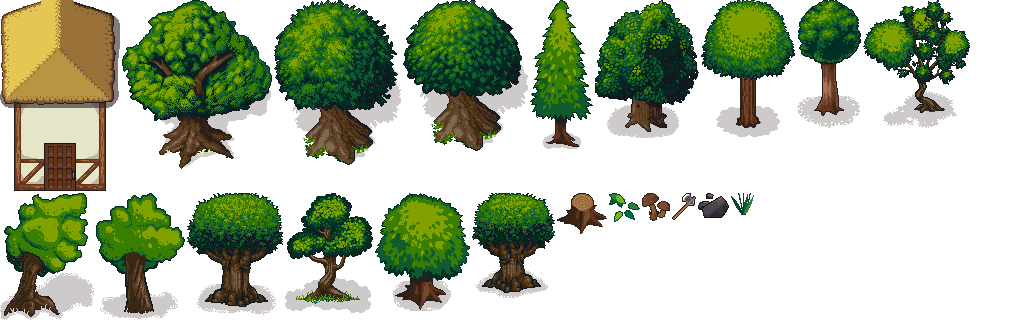
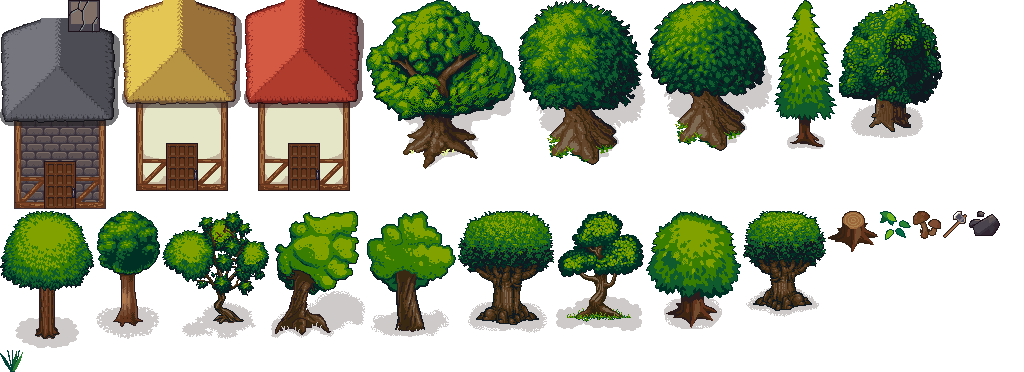
[PROJECT-X]: Build the forge and the armory in the village

diff --git a/test/layers/presentation/features/forest/game/forest_scene_component_test.dart b/test/layers/presentation/features/forest/game/forest_scene_component_test.dart
@@ -3,6 +3,8 @@ import 'dart:math' as math;
 import 'package:flame/game.dart';
 import 'package:flame_test/flame_test.dart';
 import 'package:flutter_test/flutter_test.dart';
+import 'package:rpg/core/config/constants/enum/blueprint_id.dart';
+import 'package:rpg/layers/presentation/features/forest/game/components/placement_ghost_component.dart';
 import 'package:rpg/layers/presentation/features/forest/game/components/ground_component.dart';
 import 'package:rpg/layers/presentation/features/forest/game/components/tree_component.dart';
 import 'package:rpg/layers/presentation/features/forest/game/forest_scene_component.dart';
@@ -157,6 +159,25 @@ void main() {
     expect(ghostWhilePlacing!.isValid, isTrue);
     expect(scene.ghost, isNull);
     expect(ghostWhilePlacing.isMounted, isFalse);
+  });
+
+  testWithFlameGame('testWhenThePlacedBlueprintChangesThenTheGhostIsReplaced', (game) async {
+    // given
+    final scene = await _mountedScene(game);
+    scene.show(ForestDataMock.placing);
+    await game.ready();
+    final houseGhost = scene.ghost!;
+
+    // when
+    scene.show(ForestDataMock.placingForge);
+    await game.ready();
+
+    // then
+    expect(houseGhost.isMounted, isFalse);
+    expect(scene.ghost, isNot(same(houseGhost)));
+    expect(scene.ghost!.blueprint, BlueprintId.forge);
+    expect(scene.ghost!.isMounted, isTrue);
+    expect(scene.children.whereType<PlacementGhostComponent>(), hasLength(1));
   });
 
   testWithFlameGame('testWhenShowingTheSameSnapshotTwiceThenComponentCountsStayTheSame', (game) async {

diff --git a/test/layers/domain/use-cases/game/get_build_options_use_case_test.dart b/test/layers/domain/use-cases/game/get_build_options_use_case_test.dart
@@ -1,5 +1,6 @@
 import 'package:flutter_test/flutter_test.dart';
 import 'package:mockito/mockito.dart';
+import 'package:rpg/core/config/constants/enum/blueprint_id.dart';
 import 'package:rpg/layers/domain/use-cases/game/get_build_options_use_case.dart';
 
 import '../../../../mocks/domain/game/game_scenario_mock.dart';
@@ -25,7 +26,11 @@ void main() {
     final options = sut();
 
     // then
-    expect(options, [BuildOptionEntityMock.unaffordable]);
+    expect(options, [
+      BuildOptionEntityMock.unaffordable,
+      BuildOptionEntityMock.workshop(BlueprintId.forge, missingWood: 15),
+      BuildOptionEntityMock.workshop(BlueprintId.armory, missingWood: 15),
+    ]);
   });
 
   test('testWhenWoodEqualsTheCostThenHouseIsAffordable', () {
@@ -36,7 +41,11 @@ void main() {
     final options = sut();
 
     // then
-    expect(options, [BuildOptionEntityMock.mock]);
+    expect(options, [
+      BuildOptionEntityMock.mock,
+      BuildOptionEntityMock.workshop(BlueprintId.forge, missingWood: 10),
+      BuildOptionEntityMock.workshop(BlueprintId.armory, missingWood: 10),
+    ]);
   });
 
   test('testWhenWoodExceedsTheCostThenHouseIsAffordable', () {
@@ -47,6 +56,10 @@ void main() {
     final options = sut();
 
     // then
-    expect(options, [BuildOptionEntityMock.mock]);
+    expect(options, [
+      BuildOptionEntityMock.mock,
+      BuildOptionEntityMock.workshop(BlueprintId.forge, missingWood: 8),
+      BuildOptionEntityMock.workshop(BlueprintId.armory, missingWood: 8),
+    ]);
   });
 }

diff --git a/test/layers/domain/rules/blueprints_test.dart b/test/layers/domain/rules/blueprints_test.dart
@@ -13,10 +13,29 @@ void main() {
     final blueprint = Blueprints.of(id);
 
     // then
-    expect(
-      blueprint,
-      BlueprintEntityMock.mock,
-    );
-    expect(Blueprints.all, [Blueprints.house]);
+    expect(blueprint, BlueprintEntityMock.mock);
+  });
+
+  test('testWhenAskingForTheWorkshopsThenTheyCostTwentyFiveWoodAndTakeTenHits', () {
+    // given
+    const forge = BlueprintId.forge;
+    const armory = BlueprintId.armory;
+
+    // when
+    final blueprints = (Blueprints.of(forge), Blueprints.of(armory));
+
+    // then
+    expect(blueprints, (BlueprintEntityMock.forge, BlueprintEntityMock.armory));
+  });
+
+  test('testWhenListingBlueprintsThenEveryIdAppearsOnceInDeclarationOrder', () {
+    // given
+    final ids = Blueprints.all.map((blueprint) => blueprint.id).toList();
+
+    // when
+    final expected = BlueprintId.values;
+
+    // then
+    expect(ids, expected);
   });
 }

diff --git a/test/mocks/presentation/features/forest/game/forest_data_mock.dart b/test/mocks/presentation/features/forest/game/forest_data_mock.dart
@@ -124,6 +124,12 @@ abstract final class ForestDataMock {
     isValid: false,
   );
 
+  static final PlacementData forgePlacement = PlacementData(
+    blueprint: BlueprintId.forge,
+    position: const PositionEntity(x: 300, y: 200),
+    isValid: true,
+  );
+
   static final ForestData initial = ForestData(world: world, player: player);
 
   static final ForestData treeHit = ForestData(
@@ -159,4 +165,6 @@ abstract final class ForestDataMock {
   );
 
   static final ForestData placing = ForestData(world: world, player: player, placement: validPlacement);
+
+  static final ForestData placingForge = ForestData(world: world, player: player, placement: forgePlacement);
 }

diff --git a/lib/layers/domain/rules/blueprints.dart b/lib/layers/domain/rules/blueprints.dart
@@ -10,7 +10,21 @@ abstract final class Blueprints {
     footprintRadius: 40,
   );
 
-  static const List<BlueprintEntity> all = [house];
+  static const BlueprintEntity forge = BlueprintEntity(
+    id: BlueprintId.forge,
+    cost: {Resource.wood: 25},
+    hitsToBuild: 10,
+    footprintRadius: 40,
+  );
+
+  static const BlueprintEntity armory = BlueprintEntity(
+    id: BlueprintId.armory,
+    cost: {Resource.wood: 25},
+    hitsToBuild: 10,
+    footprintRadius: 40,
+  );
+
+  static const List<BlueprintEntity> all = [house, forge, armory];
 
   static BlueprintEntity of(BlueprintId id) => all.firstWhere((blueprint) => blueprint.id == id);
 }

diff --git a/test/layers/presentation/features/forest/bloc/forest_bloc_test.dart b/test/layers/presentation/features/forest/bloc/forest_bloc_test.dart
@@ -172,7 +172,11 @@ void main() {
     wait: Duration.zero,
     verify: (bloc) {
       // then
-      expect(bloc.state.data.hud!.buildItems, [BuildItemDataMock.makeUnaffordable(missingWood: 5)]);
+      expect(bloc.state.data.hud!.buildItems, [
+        BuildItemDataMock.makeUnaffordable(missingWood: 5),
+        BuildItemDataMock.workshopUnaffordable(BlueprintId.forge, missingWood: 15),
+        BuildItemDataMock.workshopUnaffordable(BlueprintId.armory, missingWood: 15),
+      ]);
       expect(bloc.state.data.placement, isNull);
       expect(
         ForestBlocMock.shownMessages(navigationService),

diff --git a/test/layers/presentation/features/forest/game/atlas/sprite_names_test.dart b/test/layers/presentation/features/forest/game/atlas/sprite_names_test.dart
@@ -36,4 +36,18 @@ void main() {
     expect(frontOffset, 24);
     expect(itemName, 'axe-pickup');
   });
+
+  test('testWhenNamingTheWorkshopsThenUsesTheirFramesAndTheHouseFrontOffset', () {
+    // given
+    const forge = BlueprintId.forge;
+    const armory = BlueprintId.armory;
+
+    // when
+    final names = (SpriteNames.building(forge), SpriteNames.building(armory));
+    final offsets = (RenderConstants.buildingFrontOffset(forge), RenderConstants.buildingFrontOffset(armory));
+
+    // then
+    expect(names, ('forge', 'armory'));
+    expect(offsets, (24, 24));
+  });
 }

diff --git a/lib/core/assets/i18n/internationalize.dart b/lib/core/assets/i18n/internationalize.dart
@@ -49,6 +49,8 @@ class Internationalize {
   static String forestMissing({required String amounts}) => '$_forest.hud.missing'.tr(namedArgs: {'amounts': amounts});
   static String forestBlueprint({required BlueprintId id}) => switch (id) {
     BlueprintId.house => '$_forest.blueprint.house'.tr(),
+    BlueprintId.forge => '$_forest.blueprint.forge'.tr(),
+    BlueprintId.armory => '$_forest.blueprint.armory'.tr(),
   };
   static String forestQuestTitle({required QuestId id}) => switch (id) {
     QuestId.pickUpAxe => '$_forest.quest.pickUpAxe'.tr(),

diff --git a/test/mocks/presentation/features/forest/build_item_data_mock.dart b/test/mocks/presentation/features/forest/build_item_data_mock.dart
@@ -23,4 +23,14 @@ abstract final class BuildItemDataMock {
     ),
     isEnabled: false,
   );
+
+  static BuildItemData workshopUnaffordable(BlueprintId id, {required int missingWood}) => BuildItemData(
+    blueprint: id,
+    name: Internationalize.forestBlueprint(id: id),
+    costText: Internationalize.forestAmount(resource: Resource.wood, amount: 25),
+    missingText: Internationalize.forestMissing(
+      amounts: Internationalize.forestAmount(resource: Resource.wood, amount: missingWood),
+    ),
+    isEnabled: false,
+  );
 }

diff --git a/test/core/assets/i18n/internationalize_test.dart b/test/core/assets/i18n/internationalize_test.dart
@@ -117,4 +117,16 @@ void main() {
       'Mundo de juego: bosque con árboles, el personaje y los edificios',
     ]);
   });
+
+  test('testWhenNamingEveryBlueprintThenNoneFallsBackToItsKey', () {
+    // given
+    final names = BlueprintId.values.map((id) => Internationalize.forestBlueprint(id: id)).toList();
+
+    // when
+    final untranslated = names.where((name) => name.contains('forest.')).toList();
+
+    // then
+    expect(untranslated, isEmpty);
+    expect(names, ['Casa', 'Herrería', 'Armería']);
+  });
 }

diff --git a/test/mocks/domain/entities/building/blueprint_entity_mock.dart b/test/mocks/domain/entities/building/blueprint_entity_mock.dart
@@ -22,4 +22,18 @@ abstract final class BlueprintEntityMock {
       footprintRadius: footprintRadius,
     );
   }
+
+  static const BlueprintEntity forge = BlueprintEntity(
+    id: BlueprintId.forge,
+    cost: {Resource.wood: 25},
+    hitsToBuild: 10,
+    footprintRadius: 40,
+  );
+
+  static const BlueprintEntity armory = BlueprintEntity(
+    id: BlueprintId.armory,
+    cost: {Resource.wood: 25},
+    hitsToBuild: 10,
+    footprintRadius: 40,
+  );
 }

diff --git a/test/mocks/domain/entities/game/build_option_entity_mock.dart b/test/mocks/domain/entities/game/build_option_entity_mock.dart
@@ -17,4 +17,10 @@ abstract final class BuildOptionEntityMock {
 
   static BuildOptionEntity make({Map<Resource, int> missing = const {}}) =>
       BuildOptionEntity(blueprint: BlueprintId.house, cost: const {Resource.wood: 15}, missing: missing);
+
+  static BuildOptionEntity workshop(BlueprintId id, {required int missingWood}) => BuildOptionEntity(
+    blueprint: id,
+    cost: const {Resource.wood: 25},
+    missing: {Resource.wood: missingWood},
+  );
 }
